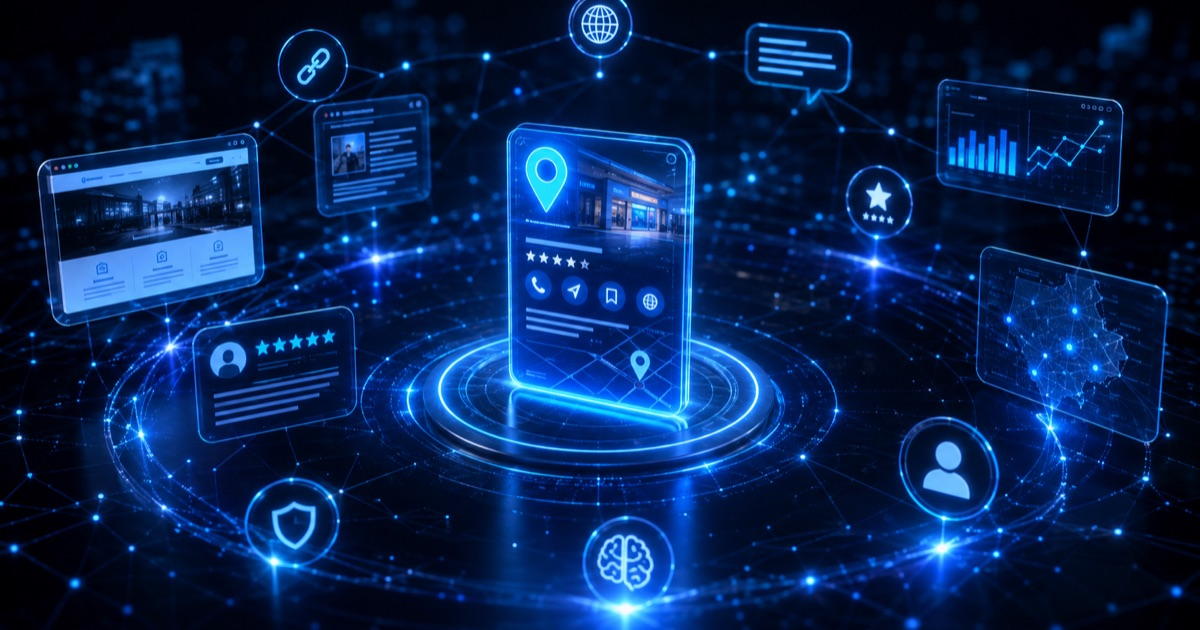
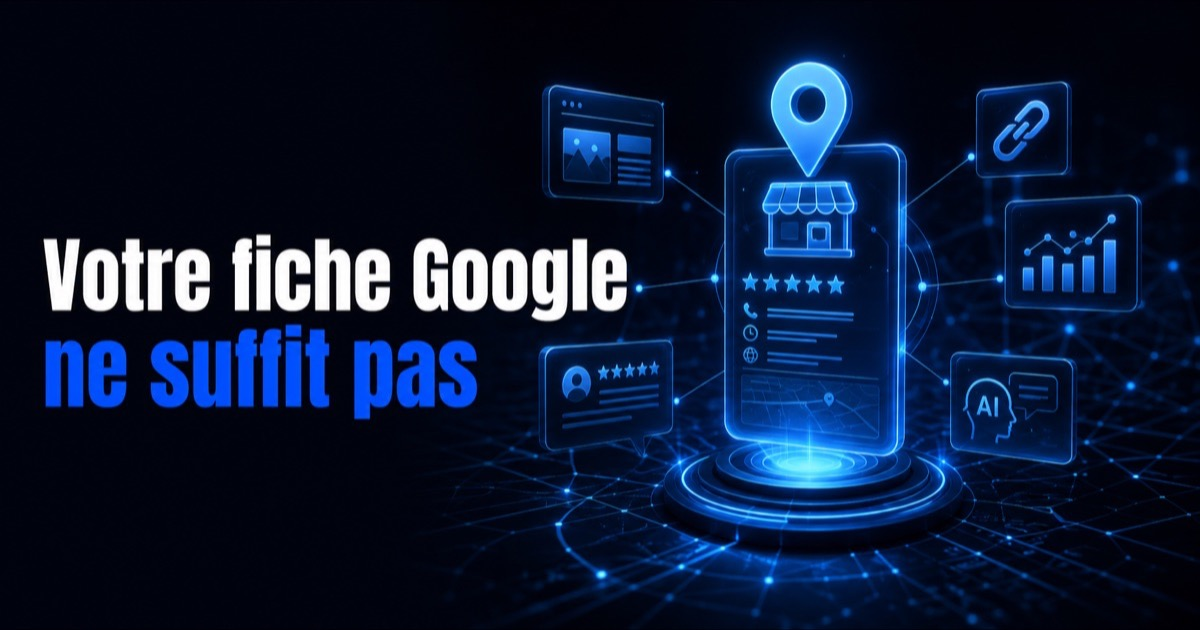
Banniere v2 avec titre incruste (process /banniere du skill analyse-hebdo, charte du site en contexte)

diff --git a/referencement-seo-geo/seo-local-gmb-ne-suffit-pas.html b/referencement-seo-geo/seo-local-gmb-ne-suffit-pas.html
@@ -131,7 +131,7 @@
     <div class="container prose">
 
       <figure style="margin:0 0 34px">
-        <img src="../assets/banniere-seo-local-gmb.jpg" alt="Une fiche d'établissement Google holographique au centre, entourée du site internet, des avis clients, des liens et des réponses IA qui composent réellement la visibilité locale." width="1200" height="630" style="width:100%;height:auto;border-radius:16px;display:block">
+        <img src="../assets/banniere-seo-local-gmb.jpg" alt="Bannière « Votre fiche Google ne suffit pas » : une fiche d'établissement holographique entourée du site internet, des avis clients, des liens et des réponses IA qui composent réellement la visibilité locale." width="1200" height="630" style="width:100%;height:auto;border-radius:16px;display:block">
       </figure>
 
       <h2 class="reveal">La réponse courte</h2>
